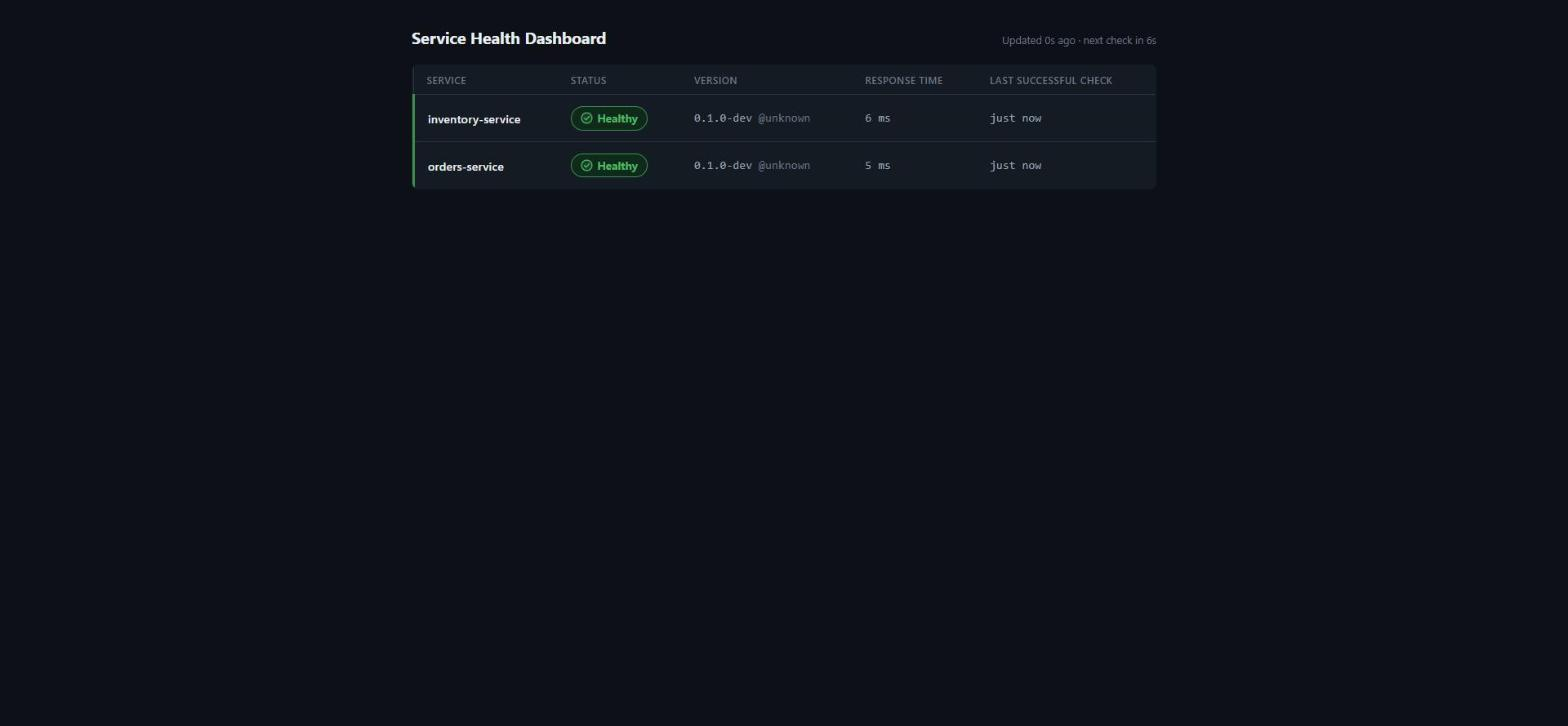
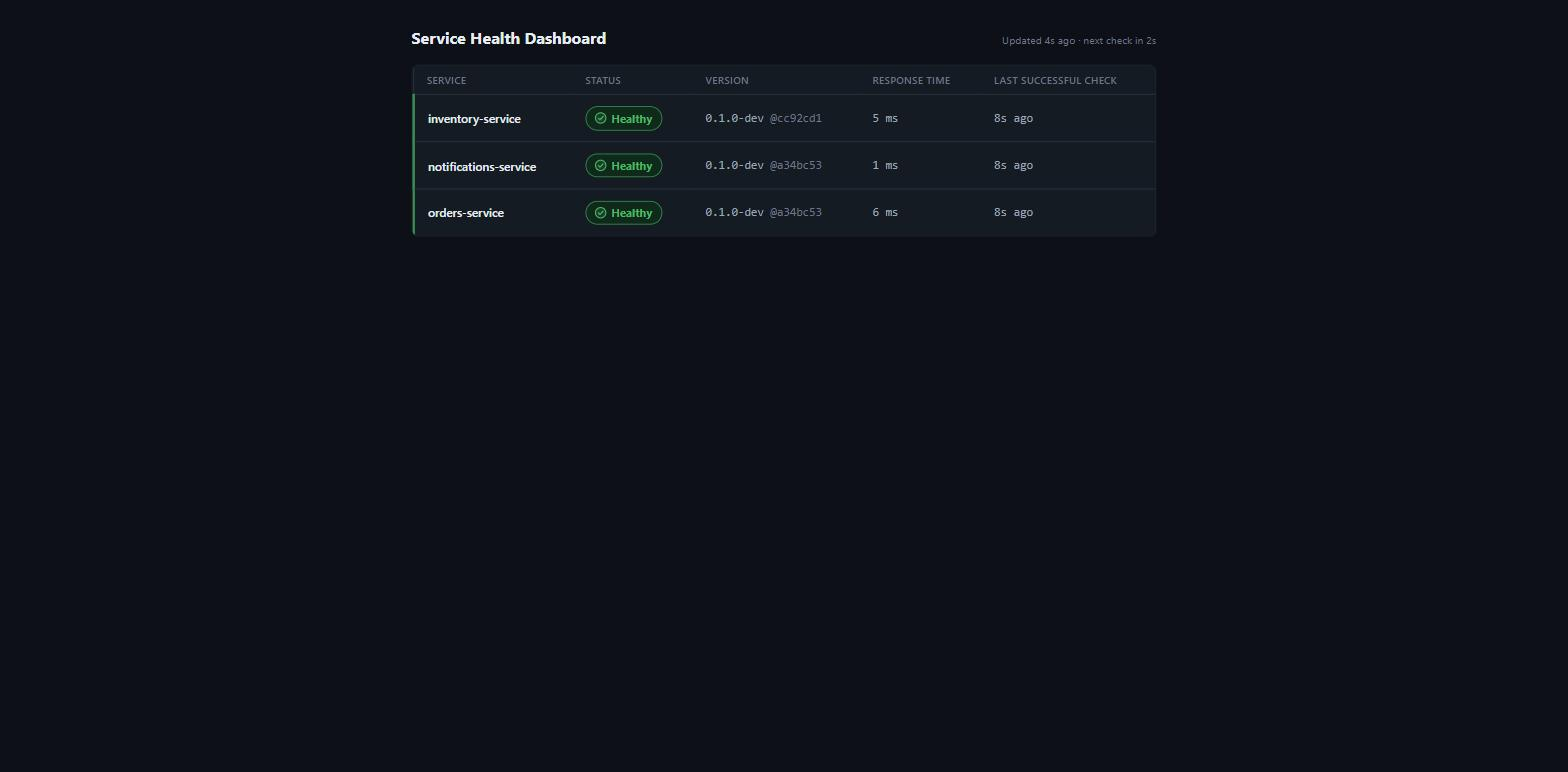
fix: dashboard-service now monitors notifications-service too, polish README
dashboard-service's MonitoredServices config only ever listed orders/
inventory — notifications-service was never added when it shipped in step
7, so the README's own claim that a "fourth service ... reports their
live health" for all three was inaccurate. Fixed in both environments
(k8s deployment env vars and docker-compose/appsettings.json), redeployed
to minikube, and replaced the dashboard-healthy screenshot with one taken
after the fix showing all three services.

README audit fixes, code-first:
- Opening paragraph split into a short what/why sentence plus a separate
  architecture sentence; the "watched by a fourth service" claim is now
  accurate rather than aspirational.
- The five `minikube service` tunnel commands broken out of the big
  "paste it all" block into their own section, one code block each, with
  an explicit note that each needs its own terminal — pasting the old
  single block only ever opened the first tunnel.
- Kubernetes section now clones/cds on its own instead of assuming the
  Docker Compose section ran first.
- Distributed tracing, Metrics, Metrics dashboards, and CI/CD sections
  updated for steps 7/7.5/8: notifications-service and the outbox
  dispatcher's spans, four services' worth of metrics (not three),
  notifications-service in the Prometheus annotation list (with the
  "fourth service added later" line rewritten past tense — it already
  happened), and the CI-failure issue automation.
[…]

diff --git a/README.md b/README.md
@@ -2,7 +2,9 @@
 
 [![CI](https://github.com/shineIB/service-health-dashboard/actions/workflows/ci.yml/badge.svg)](https://github.com/shineIB/service-health-dashboard/actions/workflows/ci.yml)
 
-A small e-commerce backend built to demonstrate *running* a microservice system, not just writing one. Orders and inventory coordinate over HTTP with real failure handling (timeouts, retries, circuit breaking, idempotency); orders-service publishes order-lifecycle events over RabbitMQ that notifications-service consumes independently; all three run in Kubernetes and are watched by a fourth service that reports their live health, version, and deploy info without ever depending on them staying up.
+A small e-commerce backend built to demonstrate *running* a microservice system, not just writing one — three .NET services on Kubernetes, watched by a fourth that reports their live health without ever depending on them staying up.
+
+Orders and inventory coordinate over HTTP with real failure handling (timeouts, retries, circuit breaking, idempotency); orders-service publishes order-lifecycle events over RabbitMQ that notifications-service consumes independently; `dashboard-service` polls all three and serves a small React SPA showing what it finds.
 
 ## Architecture
 
@@ -24,14 +26,15 @@ graph LR
     User -- "minikube service" --> Dashboard
     Dashboard -. "poll /health/ready + /version every 5s" .-> Orders
     Dashboard -. "poll /health/ready + /version every 5s" .-> Inventory
+    Dashboard -. "poll /health/ready + /version every 5s" .-> Notifications
     Orders -- "reserve / release stock (resilient HTTP)" --> Inventory
-    Orders -- "publish order.created/confirmed/cancelled (best-effort)" --> RabbitMQ
+    Orders -- "outbox: order.created/confirmed/cancelled" --> RabbitMQ
     RabbitMQ -- "consume order.*" --> Notifications
     Orders --> OrdersDB
     Inventory --> InventoryDB
 ```
 
-`orders-service` validates and reserves stock in `inventory-service` synchronously before accepting an order, then publishes an event over RabbitMQ — best-effort, never blocking the order itself. `notifications-service` consumes those events independently and logs a simulated confirmation. `dashboard-service` polls orders/inventory on its own schedule and serves a small React SPA showing what it finds — it never proxies a browser request into either service.
+`orders-service` validates and reserves stock in `inventory-service` synchronously before accepting an order, then stages an event in the same Postgres transaction as the order itself — a background dispatcher publishes it to RabbitMQ afterwards, so the order never waits on the broker (see "Events" below). `notifications-service` consumes those events independently and logs a simulated confirmation. `dashboard-service` polls all three on its own schedule and serves a small React SPA showing what it finds — it never proxies a browser request into any of them.
 
 ## Run it yourself
 
@@ -51,9 +54,12 @@ docker compose up --build
 
 ### Kubernetes (minikube)
 
-Everything lives in the `service-health-dashboard` namespace — pass `-n service-health-dashboard` (or `kubectl -n service-health-dashboard ...`) for every command below.
+Everything lives in the `service-health-dashboard` namespace — pass `-n service-health-dashboard` (or `kubectl -n service-health-dashboard ...`) for every command below. Standalone from the Docker Compose section above — clone first if you haven't already:
 
 ```bash
+git clone https://github.com/shineIB/service-health-dashboard.git
+cd service-health-dashboard
+
 # Build and load the four images (no external registry)
 # GIT_SHA/BUILD_TIME are baked in as build args so the dashboard's "version"
 # column shows something other than "unknown" — see Dockerfile comments.
@@ -83,8 +89,8 @@ kubectl -n service-health-dashboard rollout status deployment/orders-postgres
 kubectl -n service-health-dashboard rollout status deployment/inventory-postgres
 
 # Jaeger (traces UI) and RabbitMQ — nothing blocks on either being up first (orders-service's
-# publish is best-effort, notifications-service retries its own initial connect), but they
-# need to exist before the services that depend on them start doing anything useful with them
+# outbox dispatcher and notifications-service's consumer both retry their own connection), but
+# they need to exist before the services that depend on them start doing anything useful with them
 kubectl -n service-health-dashboard apply -f k8s/jaeger/deployment.yaml -f k8s/jaeger/service.yaml
 kubectl -n service-health-dashboard apply -f k8s/rabbitmq/deployment.yaml -f k8s/rabbitmq/service.yaml
 kubectl -n service-health-dashboard rollout status deployment/jaeger
@@ -107,7 +113,7 @@ kubectl -n service-health-dashboard rollout status deployment/inventory-service
 kubectl -n service-health-dashboard rollout status deployment/notifications-service
 kubectl -n service-health-dashboard rollout status deployment/dashboard-service
 
-# Prometheus (scrapes the three app pods above via their prometheus.io/* annotations —
+# Prometheus (scrapes the four app pods above via their prometheus.io/* annotations —
 # see "Metrics dashboards" below) and Grafana (dashboard provisioned from k8s/grafana/, not
 # clicked together by hand)
 kubectl -n service-health-dashboard apply \
@@ -119,16 +125,29 @@ kubectl -n service-health-dashboard apply \
   -f k8s/grafana/datasource-configmap.yaml -f k8s/grafana/dashboard-provider-configmap.yaml \
   -f k8s/grafana/dashboard-configmap.yaml -f k8s/grafana/deployment.yaml -f k8s/grafana/service.yaml
 kubectl -n service-health-dashboard rollout status deployment/grafana
+```
 
-# Opens a tunnel and prints a URL — on the Docker driver (Windows/macOS) this blocks
-# and needs its terminal left open for the tunnel to stay up
+### Opening the UIs
+
+Each of these opens a tunnel and blocks the terminal it runs in — on the Docker driver (Windows/macOS) `minikube service` doesn't return, it just prints a URL and waits. **Run each in its own terminal window**, not appended to the block above: pasting all five into one terminal only gets you the first tunnel, since the rest of the paste just sits unread until you `Ctrl+C` it.
+
+```bash
 minikube service dashboard-service -n service-health-dashboard
+```
 
-# Same for Jaeger's UI, RabbitMQ's management UI, Prometheus's UI, and Grafana, each in
-# their own terminal
+```bash
 minikube service jaeger -n service-health-dashboard
+```
+
+```bash
 minikube service rabbitmq -n service-health-dashboard
+```
+
+```bash
 minikube service prometheus -n service-health-dashboard
+```
+
+```bash
 minikube service grafana -n service-health-dashboard
 ```
 
@@ -183,9 +202,9 @@ application itself.
 
 Status is coded in shape and color together — a solid pill with a checkmark for Healthy, solid amber with a warning triangle for Unhealthy, and a **dashed, hollow** pill with a slash for Unreachable, so "didn't respond at all" never looks like a shade of "responded but sick." Version, response time, and last-successful-check are all live and update every 5 seconds.
 
-**Healthy** — both services up:
+**Healthy** — all three monitored services up:
 
-![Dashboard showing both services healthy](docs/screenshots/dashboard-healthy.jpg)
+![Dashboard showing orders-service, inventory-service, and notifications-service all healthy](docs/screenshots/dashboard-healthy.jpg)
 
 **`inventory-service` scaled to 0 replicas** — the dashboard marks it `Unreachable` (not "red like Unhealthy"), keeps its last-known version and shows *when* it was last seen, while `orders-service` and the dashboard itself stay unaffected:
 
@@ -193,7 +212,7 @@ Status is coded in shape and color together — a solid pill with a checkmark fo
 
 ## Distributed tracing
 
-OpenTelemetry traces every request across both services that talk to each other over HTTP — orders-service's own request, the outbound call into inventory-service, and both services' Postgres queries — using the standard W3C `traceparent` header, no custom propagation code required. Retries and circuit-breaker state changes from the Polly v8 resilience pipeline show up as their own spans, not just log lines. Traces go to Jaeger (`k8s/jaeger`) over OTLP; every log line is enriched with `trace_id`/`span_id` so a log can be followed straight to its trace in Jaeger.
+OpenTelemetry traces every request across the services that talk to each other over HTTP — orders-service's own request, the outbound call into inventory-service, and both services' Postgres queries — using the standard W3C `traceparent` header, no custom propagation code required. Retries and circuit-breaker state changes from the Polly v8 resilience pipeline show up as their own spans, not just log lines. The RabbitMQ side gets the same treatment even though there's no HTTP call to propagate a header over: `OutboxDispatcher` wraps each publish in its own `order.publish-event` span (tagged with the outbox message id and routing key), and `notifications-service` wraps each consumed message in `notifications.handle-event` (tagged with the event id and type) — so a trace can show "this order's event was staged, published some time later once RabbitMQ was reachable, and consumed here" even though the two ends never share an HTTP request. Traces go to Jaeger (`k8s/jaeger`) over OTLP; every log line is enriched with `trace_id`/`span_id` so a log can be followed straight to its trace in Jaeger.
 
 **A complete order** — `POST /orders` on orders-service, the resilient call into inventory-service, the manual `inventory.reserve` span (tagged with the order and product IDs), and both services' Postgres queries, all in one trace:
 
@@ -205,18 +224,23 @@ OpenTelemetry traces every request across both services that talk to each other 
 
 ## Metrics
 
-All three services expose OpenTelemetry metrics at `GET /metrics` in Prometheus text format — ASP.NET Core/HttpClient request counts and latency histograms for free from auto-instrumentation, plus a handful of business counters for the outcomes that matter: `orders_created_total`, `orders_rejected_total` (tagged `reason=insufficient_stock|inventory_unavailable`), `orders_cancelled_total` on orders-service; `inventory_reservations_succeeded_total`, `inventory_reservations_failed_total` (tagged `reason=insufficient_stock`), `inventory_releases_total` on inventory-service.
+All four services expose OpenTelemetry metrics at `GET /metrics` in Prometheus text format — ASP.NET Core/HttpClient request counts and latency histograms for free from auto-instrumentation, plus a handful of business counters for the outcomes that matter:
+
+- **orders-service:** `orders_created_total`, `orders_rejected_total` (tagged `reason=insufficient_stock|inventory_unavailable`), `orders_cancelled_total`, and the outbox's own `orders_events_published_total`, `orders_events_publish_failed_total`, `orders_events_publish_abandoned_total` (tagged `event_type`) — see "Events" below for what "abandoned" means.
+- **inventory-service:** `inventory_reservations_succeeded_total`, `inventory_reservations_failed_total` (tagged `reason=insufficient_stock`), `inventory_releases_total`.
+- **notifications-service:** `notifications_sent_total`, `notifications_failed_total` (tagged `reason`), and `notifications_duplicate_total` — a redelivered event being acked without a second confirmation, not a failure.
 
 Pull-based (scraped, not pushed over OTLP) — Jaeger only understands traces, and OTLP metric export needs something to receive it. Try it against the Docker Compose stack:
 
 ```bash
 curl http://localhost:8080/metrics | grep orders_
 curl http://localhost:8081/metrics | grep inventory_
+curl http://localhost:8083/metrics | grep notifications_
 ```
 
 ## Metrics dashboards (Prometheus + Grafana)
 
-In `k8s/`, not Docker Compose — this is infrastructure, not application code, and minikube is where it earns its keep. Prometheus discovers what to scrape via `kubernetes_sd_configs` (pod role) plus `prometheus.io/scrape`/`port`/`path` annotations already on orders-service/inventory-service/dashboard-service's Deployments (`k8s/prometheus/configmap.yaml`) — a fourth service added later gets picked up the moment its Deployment carries the same annotations, no target list to maintain by hand.
+In `k8s/`, not Docker Compose — this is infrastructure, not application code, and minikube is where it earns its keep. Prometheus discovers what to scrape via `kubernetes_sd_configs` (pod role) plus `prometheus.io/scrape`/`port`/`path` annotations on every Deployment — orders-service, inventory-service, notifications-service, and dashboard-service all carry them (`k8s/prometheus/configmap.yaml`). That's not hypothetical: notifications-service was added after this scrape config was written, and it started showing up in Prometheus's targets the moment its Deployment rolled out — no change to the ConfigMap needed. That's the actual point of annotation-based discovery over a hand-maintained target list, demonstrated by a real fourth service, not just asserted.
 
 **Grafana's datasource and dashboard are provisioned as code** — two ConfigMaps (`k8s/grafana/datasource-configmap.yaml`, `k8s/grafana/dashboard-configmap.yaml`), not clicked together in the UI (`GF_AUTH_ANONYMOUS_ENABLED=true` even makes the UI read-only for exactly that reason — see `k8s/grafana/deployment.yaml`). A dashboard that only exists because someone built it by hand in the running pod disappears with that pod and was never in git; provisioning from a ConfigMap means the dashboard *is* version-controlled, and `kubectl apply` rebuilds it identically on a fresh cluster.
 
@@ -254,6 +278,8 @@ Both gaps are the same trade-off from two angles: this is safe **only** because 
 
 GitHub Actions (`.github/workflows/ci.yml`) runs on every push/PR to `master`: restore, build, test the whole solution, then build all four service images (catches a broken Dockerfile early). On a push to `master` specifically — not on PRs — a separate job also **publishes** those four images to GitHub Container Registry, tagged with both the short git SHA and `latest`, built with the same `GIT_SHA`/`BUILD_TIME` build args as the local `docker build` commands above so a published image's `/version` endpoint shows a real commit and build time, not `"unknown"`.
 
+If any job fails on a push to `master`, a final job opens a GitHub issue (labeled `ci-failure`, linking straight to the run) instead of relying on the CI badge above being the only signal — there's no public API for the personal "notify me on failed Actions" account setting, so an open issue on the repo itself is the automatable equivalent.
+
 ### Pulling published images
 
 ```bash
@@ -279,6 +305,8 @@ GHCR packages are public for this repo — no `docker login` needed to pull.
 **Idempotency via order ID.** Every stock reservation is keyed by the order's ID, so a retried request — including the resilience pipeline's own retries — can't double-reserve. The alternative, trusting the caller to never retry, doesn't hold once you've added retries yourself.
 
 **TTL instead of compensating release.** A reservation expires on its own via a background sweep in `inventory-service`, instead of `orders-service` issuing a compensating "release" call when something fails downstream. A saga/compensating-transaction approach was rejected because the compensating call would go through the very service that may be the reason things are failing — TTL doesn't depend on anything else being reachable.
+
+**Transactional outbox instead of publishing directly to RabbitMQ.** An order-lifecycle event is written to an `OutboxMessages` row in the same Postgres transaction as the order change itself, and a separate background dispatcher publishes it afterwards — `orders-service` never calls RabbitMQ from the request path at all. The alternative — publish directly to RabbitMQ right after the commit, catching and logging any failure so it could never fail the order — is simpler and was this project's first version (see git history), but has one real gap: a crash in the narrow window between the DB commit and the publish call loses that one event permanently, with nothing left anywhere to retry from. The outbox closes that gap by making the write itself the durable record, at the cost of a table, a migration, and a poll loop. See "Events" below for the full mechanics, including the bounded-retry/dead-letter handling on both ends.
 
 **`/health/live` vs. `/health/ready`.** Live has no dependencies and is always healthy if the process is running; ready checks the database. Kubernetes uses live for restart decisions and ready for traffic routing. A single combined endpoint was rejected because it would turn a brief database hiccup into an unnecessary pod restart instead of just a short pause in traffic.
 
